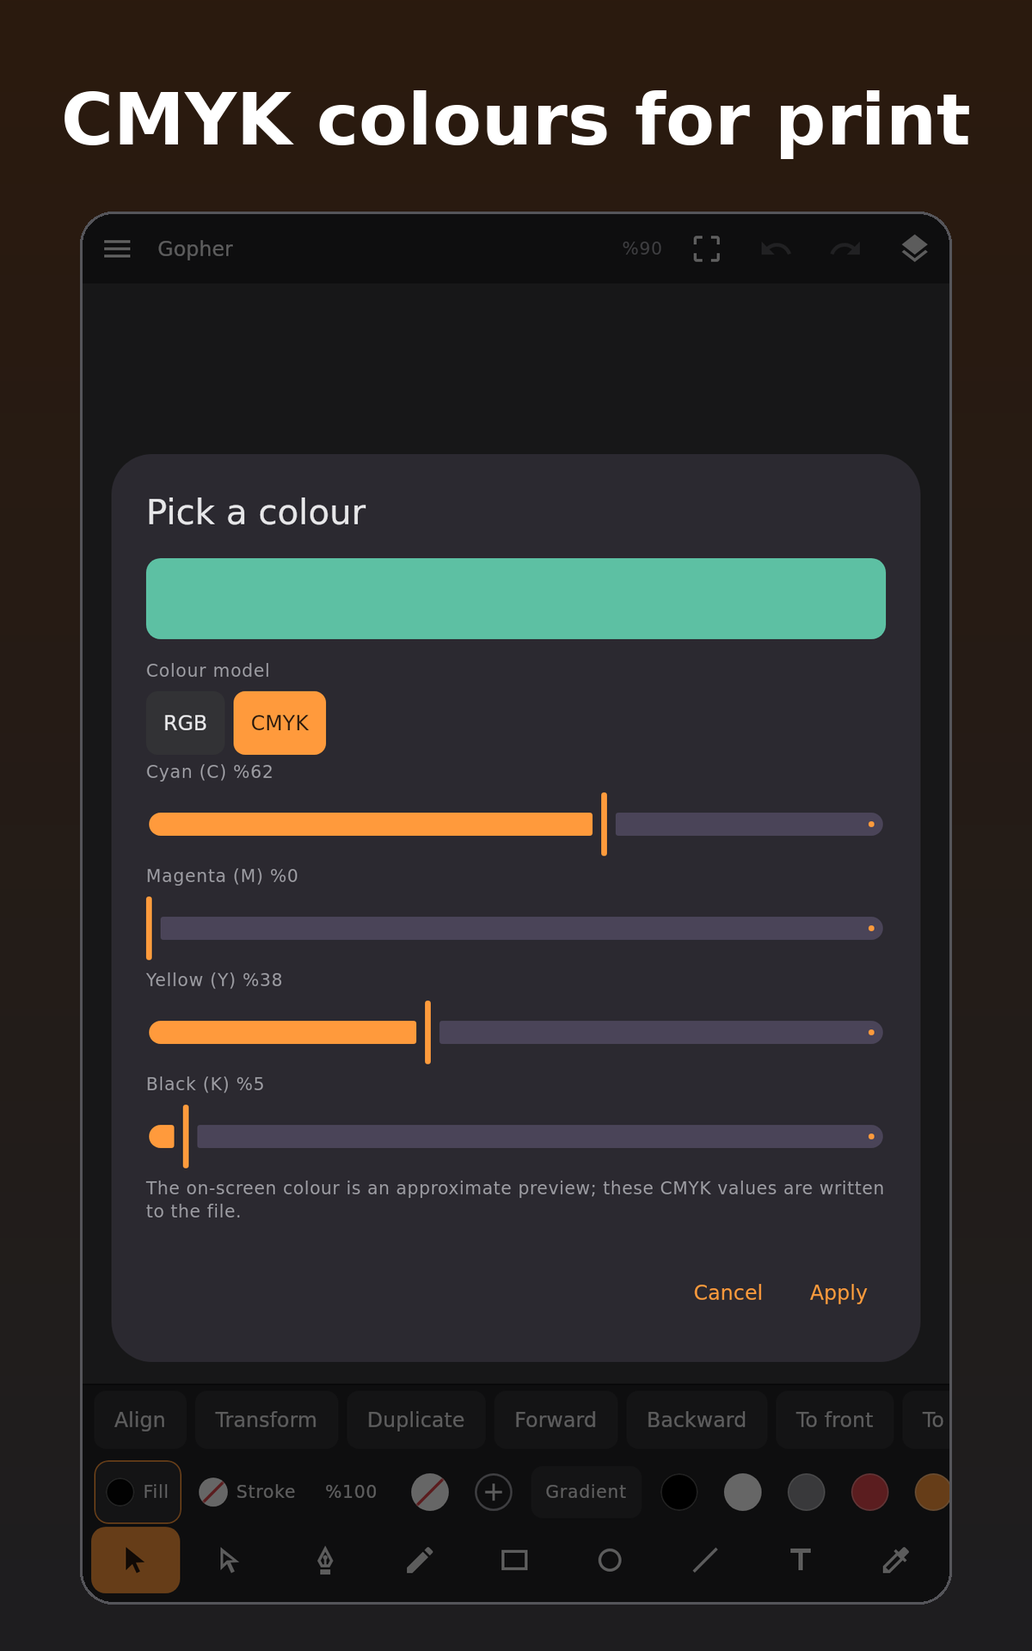
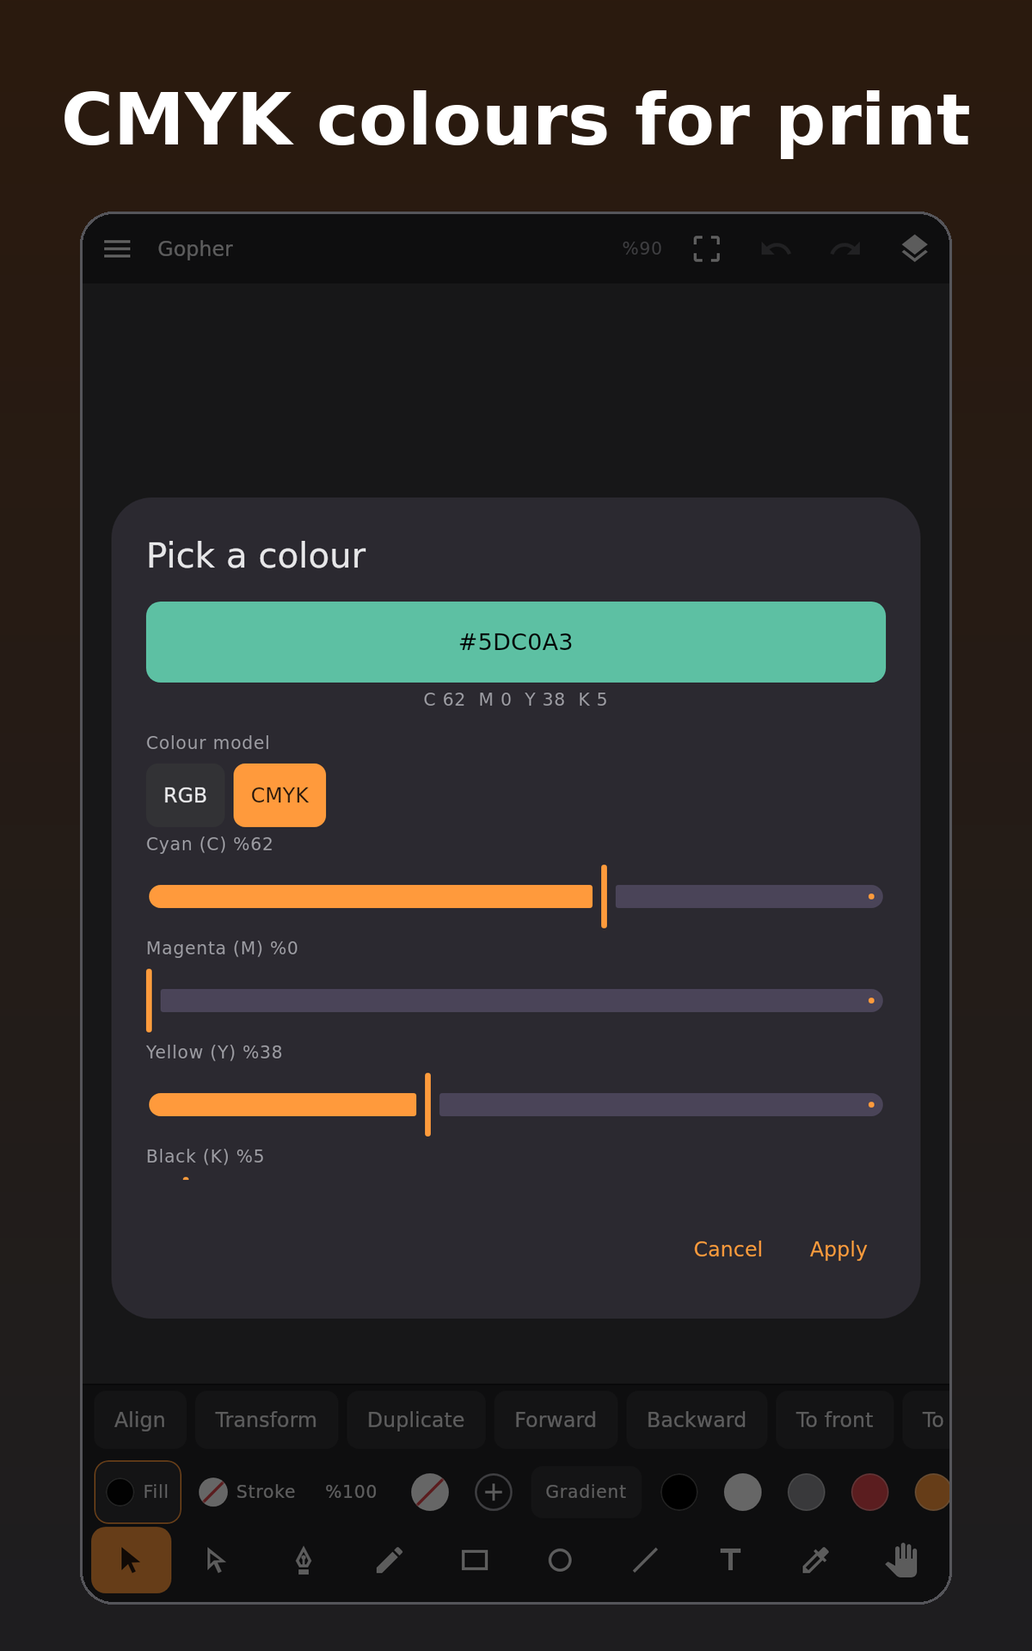
El aracı (yalnızca kaydırma), renk tekerleği ve renk kodu, seçili nesneyi katmanda gösterme
- Kaydır aracı: dokunuş seçmez/çizmez, sürükleme tuvali kaydırır (masaüstünde H)
- Renk seçici: ton/doygunluk tekerleği, parlaklık, #RRGGBB kodu ve R/G/B ya da C/M/Y/K değerleri
- Katmanda göster: panel açılır, üst gruplar genişler, liste satıra kayar; panel açıkken tuval seçimi de izlenir
- Panelden seçilen nesne ekran dışındaysa görünüme getirilir
- Mağaza ekran görüntüleri yenilendi

Claude-Session: https://claude.ai/code/session_01NvxsdBtFGvDdagaEbqt32g

diff --git a/shared-ui/src/main/kotlin/io/github/mhmmtbg/mobileillustrator/ui/Dialogs.kt b/shared-ui/src/main/kotlin/io/github/mhmmtbg/mobileillustrator/ui/Dialogs.kt
@@ -1,6 +1,20 @@
 package io.github.mhmmtbg.mobileillustrator.ui
 
 import io.github.mhmmtbg.mobileillustrator.model.tr
+import androidx.compose.foundation.Canvas
+import androidx.compose.foundation.gestures.awaitEachGesture
+import androidx.compose.foundation.gestures.awaitFirstDown
+import androidx.compose.foundation.layout.size
+import androidx.compose.runtime.rememberUpdatedState
+import androidx.compose.ui.geometry.Offset
+import androidx.compose.ui.graphics.Brush
+import androidx.compose.ui.graphics.drawscope.Stroke
+import androidx.compose.ui.input.pointer.pointerInput
+import androidx.compose.ui.text.style.TextAlign
+import kotlin.math.atan2
+import kotlin.math.cos
+import kotlin.math.sin
+import kotlin.math.sqrt
 import androidx.compose.foundation.background
 import androidx.compose.foundation.clickable
 import androidx.compose.foundation.horizontalScroll
@@ -208,9 +222,33 @@ fun ColorPickerDialog(initial: Rgba, onDismiss: () -> Unit, onPick: (Rgba) -> Un
         onDismissRequest = onDismiss,
         title = { Text(tr("Renk seç")) },
         text = {
-            Column(Modifier.verticalScroll(rememberScrollState()), verticalArrangement = Arrangement.spacedBy(4.dp)) {
-                val preview = if (cmykMode) Color(cmyk().toRgb().toArgb()) else Color(argb())
-                Box(Modifier.fillMaxWidth().height(56.dp).clip(RoundedCornerShape(10.dp)).background(preview))
+            // Yükseklik sınırlı: klavye açıkken Uygula/Vazgeç düğmeleri klavyenin arkasında kalmamalı.
+            Column(Modifier.heightIn(max = 400.dp).verticalScroll(rememberScrollState()), verticalArrangement = Arrangement.spacedBy(4.dp)) {
+                val shown = if (cmykMode) cmyk().toRgb().toArgb() else argb()
+                val preview = Color(shown)
+                // Seçilen rengin kodu, rengin üzerinde okunur biçimde gösterilir.
+                val code = "#%06X".format(shown and 0xFFFFFF)
+                val red = (shown shr 16) and 0xFF
+                val green = (shown shr 8) and 0xFF
+                val blue = shown and 0xFF
+                val onPreview = if (red * 0.299 + green * 0.587 + blue * 0.114 > 150) Color.Black else Color.White
+                Box(
+                    Modifier.fillMaxWidth().height(56.dp).clip(RoundedCornerShape(10.dp)).background(preview)
+                        .semantics { contentDescription = tr("Renk kodu: %s", code) },
+                    contentAlignment = Alignment.Center,
+                ) {
+                    Text(code, color = onPreview, style = MaterialTheme.typography.titleMedium)
+                }
+                Text(
+                    if (cmykMode) {
+                        "C %d  M %d  Y %d  K %d".format((c * 100).toInt(), (m * 100).toInt(), (y * 100).toInt(), (k * 100).toInt())
+                    } else {
+                        "R %d  G %d  B %d".format(red, green, blue)
+                    },
+                    Modifier.fillMaxWidth(),
+                    style = MaterialTheme.typography.labelMedium,
+                    textAlign = TextAlign.Center,
+                )
                 (ink0 as? Ink.Spot)?.let { spot ->
                     Text(
                         tr("Şu anki renk bir spot renk: %s (%%%s). Buradan renk seçersen spot tanımı kalkar.", spot.name, (spot.tint * 100).toInt()),
@@ -231,10 +269,10 @@ fun ColorPickerDialog(initial: Rgba, onDismiss: () -> Unit, onPick: (Rgba) -> Un
                     ink(tr("Siyah (K)"), k) { k = it }
                     Text(tr("Ekrandaki renk yaklaşık bir önizlemedir; dosyaya bu CMYK değerleri yazılır."), style = MaterialTheme.typography.bodySmall)
                 } else {
-                    Text(tr("Ton"), style = MaterialTheme.typography.labelMedium)
-                    Slider(hue, { hue = it; syncHex() }, valueRange = 0f..360f, modifier = Modifier.semantics { contentDescription = tr("Ton") })
-                    Text(tr("Doygunluk"), style = MaterialTheme.typography.labelMedium)
-                    Slider(sat, { sat = it; syncHex() }, modifier = Modifier.semantics { contentDescription = tr("Doygunluk") })
+                    // Tekerlek: açı tonu, merkezden uzaklık doygunluğu verir. Parlaklık alttaki sürgüdedir.
+                    Box(Modifier.fillMaxWidth(), contentAlignment = Alignment.Center) {
+                        ColorWheel(hue, sat, value) { h, sv -> hue = h; sat = sv; syncHex() }
+                    }
                     Text(tr("Parlaklık"), style = MaterialTheme.typography.labelMedium)
                     Slider(value, { value = it; syncHex() }, modifier = Modifier.semantics { contentDescription = tr("Parlaklık") })
                     OutlinedTextField(
@@ -481,4 +519,52 @@ fun CoffeeDialog(coffee: CoffeeState, onDismiss: () -> Unit, onBuy: () -> Unit) 
         },
         dismissButton = { if (!coffee.purchased) TextButton(onClick = onDismiss) { Text(tr("Vazgeç")) } },
     )
+}
+
+private val WheelHues = listOf(0f, 60f, 120f, 180f, 240f, 300f, 360f).map { Color(hsvToArgb(it, 1f, 1f)) }
+
+/**
+ * Renk tekerleği. Dokunulan noktanın açısı tonu (0-360), merkezden uzaklığı doygunluğu (0-1) verir;
+ * parlaklık ayrı bir sürgüyle seçilir ve tekerlek o parlaklıkta gösterilir.
+ */
+@Composable
+private fun ColorWheel(hue: Float, saturation: Float, value: Float, onChange: (hue: Float, saturation: Float) -> Unit) {
+    val current by rememberUpdatedState(onChange)
+    val label = tr("Renk tekerleği")
+    Canvas(
+        Modifier
+            .size(190.dp)
+            .semantics { contentDescription = label }
+            .pointerInput(Unit) {
+                fun pick(p: Offset) {
+                    val radius = minOf(size.width, size.height) / 2f
+                    val dx = p.x - size.width / 2f
+                    val dy = p.y - size.height / 2f
+                    val angle = Math.toDegrees(atan2(dy.toDouble(), dx.toDouble())).toFloat()
+                    current((angle + 360f) % 360f, (sqrt(dx * dx + dy * dy) / radius).coerceIn(0f, 1f))
+                }
+                awaitEachGesture {
+                    val down = awaitFirstDown()
+                    pick(down.position)
+                    down.consume()
+                    while (true) {
+                        val change = awaitPointerEvent().changes.firstOrNull { it.id == down.id } ?: break
+                        if (!change.pressed) break
+                        pick(change.position)
+                        change.consume()
+                    }
+                }
+            },
+    ) {
+        val radius = size.minDimension / 2f
+        drawCircle(Brush.sweepGradient(WheelHues, center), radius)
+        drawCircle(Brush.radialGradient(listOf(Color.White, Color.White.copy(alpha = 0f)), center, radius), radius)
+        if (value < 1f) drawCircle(Color.Black.copy(alpha = 1f - value), radius)
+        // Seçili rengin yeri
+        val a = Math.toRadians(hue.toDouble())
+        val at = Offset(center.x + (cos(a) * saturation * radius).toFloat(), center.y + (sin(a) * saturation * radius).toFloat())
+        drawCircle(Color(hsvToArgb(hue, saturation, value)), 9.dp.toPx(), at)
+        drawCircle(Color.White, 9.dp.toPx(), at, style = Stroke(3.dp.toPx()))
+        drawCircle(Color.Black.copy(alpha = 0.6f), 11.dp.toPx(), at, style = Stroke(1.dp.toPx()))
+    }
 }

diff --git a/shared-ui/src/main/kotlin/io/github/mhmmtbg/mobileillustrator/editor/EditorViewModel.kt b/shared-ui/src/main/kotlin/io/github/mhmmtbg/mobileillustrator/editor/EditorViewModel.kt
@@ -412,7 +412,7 @@ class EditorViewModel(private val io: DocumentIo, private val scope: CoroutineSc
                 val snap = if (targets.isEmpty()) null else Snap.point(start, targets, snapThreshold())
                 return Drag.Create(if (snap == null) start else Vec2(start.x + snap.dx, start.y + snap.dy), newId(), layer.id, targets)
             }
-            Tool.Eyedropper -> return Drag.Pan(startScreen)
+            Tool.Eyedropper, Tool.Hand -> return Drag.Pan(startScreen)
         }
     }
 
@@ -1072,6 +1072,7 @@ class EditorViewModel(private val io: DocumentIo, private val scope: CoroutineSc
     }
 
     /** Katman panelinden nesne seçimi (iç içe nesneler dahil). */
+    /** Katman panelinden seçim: nesne tuvalde de seçilir ve ekranın dışındaysa görünüme getirilir. */
     fun selectNode(id: String) {
         val node = present.findNode(id) ?: return
         if (state.pen != null) finishPen()
@@ -1079,6 +1080,41 @@ class EditorViewModel(private val io: DocumentIo, private val scope: CoroutineSc
             nodeEdit = if (state.tool == Tool.Direct && node is PathNode) NodeEdit(id) else null,
             tool = if (state.tool == Tool.Direct) Tool.Direct else Tool.Select,
         )
+        bringIntoView(present.boundsOf(setOf(id)) ?: return)
+    }
+
+    /** [box] ekranda hiç görünmüyorsa görünümü (ölçeği değiştirmeden) onu ortalayacak biçimde kaydırır. */
+    private fun bringIntoView(box: Rect) {
+        if (canvasSize.width <= 0 || canvasSize.height <= 0) return
+        val visible = Rect.of(viewport.toDocument(Offset.Zero), viewport.toDocument(Offset(canvasSize.width, canvasSize.height)))
+        if (box.intersects(visible)) return
+        val c = box.center
+        fitted = false
+        viewport = viewport.copy(
+            offset = Offset(canvasSize.width / 2 - c.x.toFloat() * viewport.scale, canvasSize.height / 2 - c.y.toFloat() * viewport.scale),
+        )
+    }
+
+    /**
+     * Tuvalde seçili nesneyi katman panelinde gösterir: panel açılır, nesnenin içinde bulunduğu katman ve
+     * gruplar genişletilir, liste o satıra kaydırılır.
+     */
+    fun revealSelectionInLayers() {
+        val id = state.selection.firstOrNull() ?: return
+        val path = ArrayList<String>()
+        fun search(nodes: List<Node>): Boolean {
+            for (n in nodes) {
+                if (n.id == id) return true
+                if (n is GroupNode) {
+                    path += n.id
+                    if (search(n.children)) return true
+                    path.removeAt(path.size - 1)
+                }
+            }
+            return false
+        }
+        val layer = present.layers.firstOrNull { l -> path.clear(); search(l.children) } ?: return
+        state = state.copy(layersOpen = true, expanded = state.expanded + layer.id + path, revealTick = state.revealTick + 1)
     }
 
     // ---- Metin ------------------------------------------------------------

diff --git a/desktop/src/test/kotlin/io/github/mhmmtbg/mobileillustrator/desktop/DesktopSmokeTest.kt b/desktop/src/test/kotlin/io/github/mhmmtbg/mobileillustrator/desktop/DesktopSmokeTest.kt
@@ -1,9 +1,12 @@
 package io.github.mhmmtbg.mobileillustrator.desktop
 
 import androidx.compose.ui.ImageComposeScene
+import androidx.compose.ui.geometry.Offset
+import androidx.compose.ui.geometry.Size
 import androidx.compose.ui.unit.Density
 import io.github.mhmmtbg.mobileillustrator.editor.EditorViewModel
 import io.github.mhmmtbg.mobileillustrator.editor.ExportFormat
+import io.github.mhmmtbg.mobileillustrator.editor.Tool
 import io.github.mhmmtbg.mobileillustrator.model.Document
 import io.github.mhmmtbg.mobileillustrator.model.L10n
 import io.github.mhmmtbg.mobileillustrator.model.PathNode
@@ -110,5 +113,45 @@ class DesktopSmokeTest {
         assertTrue(((centre shr 16) and 0xFF) > 120, "tuval ortası %08X".format(centre))
         SwingUtilities.invokeAndWait { scene.close() }
         assertTrue(Document.blank().layers.isNotEmpty())
+    }
+
+    @Test
+    fun handToolOnlyPansAndSelectionIsRevealedInLayers() {
+        val io = DesktopDocumentIo(newRoot())
+        lateinit var vm: EditorViewModel
+        SwingUtilities.invokeAndWait {
+            vm = EditorViewModel(io, CoroutineScope(SupervisorJob() + Dispatchers.Main))
+            vm.onCanvasSize(Size(1000f, 800f))
+            vm.openSample()
+        }
+        val deadline = System.currentTimeMillis() + 30_000
+        while (System.currentTimeMillis() < deadline && (vm.state.busy != null || vm.state.document.layers.size != 3)) Thread.sleep(50)
+        SwingUtilities.invokeAndWait {
+            // El aracı: sürüklemek görünümü kaydırır, dokunmak hiçbir şeyi seçmez ya da çizmez.
+            val nodes = vm.state.document.layers.sumOf { it.children.size }
+            val before = vm.viewport
+            vm.selectTool(Tool.Hand)
+            vm.onDrag(Offset(400f, 400f), Offset(450f, 430f))
+            vm.onDrag(Offset(400f, 400f), Offset(500f, 460f))
+            vm.onDragEnd()
+            vm.onTap(Offset(500f, 400f))
+            assertEquals(before.scale, vm.viewport.scale)
+            assertEquals(before.offset.x + 100f, vm.viewport.offset.x, 0.5f)
+            assertEquals(before.offset.y + 60f, vm.viewport.offset.y, 0.5f)
+            assertTrue(vm.state.selection.isEmpty())
+            assertEquals(nodes, vm.state.document.layers.sumOf { it.children.size })
+            assertTrue(!vm.state.history.canUndo, "kaydırma belgeyi değiştirmemeli")
+
+            // Seçili nesne katman panelinde gösterilir: panel açılır ve nesnenin katmanı genişler.
+            val layer = vm.state.document.layers.first { it.name == "Pallette" }
+            vm.selectNode(layer.children.first().id)
+            vm.toggleLayersPanel()
+            vm.toggleLayersPanel()
+            assertTrue(!vm.state.layersOpen)
+            vm.revealSelectionInLayers()
+            assertTrue(vm.state.layersOpen)
+            assertTrue(layer.id in vm.state.expanded)
+            assertEquals(1, vm.state.revealTick)
+        }
     }
 }

diff --git a/shared-ui/src/main/kotlin/io/github/mhmmtbg/mobileillustrator/ui/LayersPanel.kt b/shared-ui/src/main/kotlin/io/github/mhmmtbg/mobileillustrator/ui/LayersPanel.kt
@@ -16,6 +16,8 @@ import androidx.compose.foundation.layout.size
 import androidx.compose.foundation.layout.width
 import androidx.compose.foundation.lazy.LazyColumn
 import androidx.compose.foundation.lazy.items
+import androidx.compose.foundation.lazy.rememberLazyListState
+import androidx.compose.runtime.LaunchedEffect
 import androidx.compose.material3.DropdownMenu
 import androidx.compose.material3.DropdownMenuItem
 import androidx.compose.material3.HorizontalDivider
@@ -83,7 +85,20 @@ fun LayersPanel(vm: EditorViewModel, modifier: Modifier = Modifier) {
             BarButton(AppIcons.Close, tr("Paneli kapat"), onClick = vm::toggleLayersPanel)
         }
         HorizontalDivider(color = AppColors.Divider)
-        LazyColumn(Modifier.fillMaxWidth().weight(1f)) {
+        // Tuvalde seçilen nesne listede görünür olsun: kapalı bir grubun içindeyse açılır, satır ekran dışındaysa
+        // liste oraya kayar. Panelden seçildiğinde satır zaten görünür olduğundan liste yerinde kalır.
+        val listState = rememberLazyListState()
+        val selectedId = state.selection.singleOrNull()
+        LaunchedEffect(selectedId, state.revealTick) {
+            val id = selectedId ?: return@LaunchedEffect
+            val index = rows.indexOfFirst { it is PanelRow.OfNode && it.node.id == id }
+            if (index < 0) {
+                vm.revealSelectionInLayers()
+            } else if (listState.layoutInfo.visibleItemsInfo.none { it.index == index }) {
+                listState.animateScrollToItem(maxOf(0, index - 2))
+            }
+        }
+        LazyColumn(Modifier.fillMaxWidth().weight(1f), state = listState) {
             items(rows, key = { it.key }) { row ->
                 when (row) {
                     is PanelRow.OfLayer -> LayerRow(vm, row, onRename = { renaming = row.layer.id })

diff --git a/shared-ui/src/main/kotlin/io/github/mhmmtbg/mobileillustrator/editor/EditorState.kt b/shared-ui/src/main/kotlin/io/github/mhmmtbg/mobileillustrator/editor/EditorState.kt
@@ -13,7 +13,8 @@ import io.github.mhmmtbg.mobileillustrator.model.Rect
 import io.github.mhmmtbg.mobileillustrator.model.Rgba
 import io.github.mhmmtbg.mobileillustrator.model.Vec2
 
-enum class Tool { Select, Direct, Pen, Pencil, Rectangle, Ellipse, Line, Text, Eyedropper }
+/** [Hand]: yalnızca tuvali kaydırır; dokunuş hiçbir şeyi seçmez ya da çizmez. */
+enum class Tool { Select, Direct, Pen, Pencil, Rectangle, Ellipse, Line, Text, Eyedropper, Hand }
 
 /** Kontur çizgi türü; aralıklar kalınlığa oranlıdır. */
 enum class DashStyle(val pattern: List<Double>) {
@@ -119,6 +120,8 @@ data class EditorState(
     val layersOpen: Boolean = false,
     /** Katman panelinde açık duran katman ve grupların kimlikleri. */
     val expanded: Set<String> = emptySet(),
+    /** Katman panelinin seçili nesneye kaydırılması istendikçe artar. */
+    val revealTick: Int = 0,
     val busy: String? = null,
     val message: String? = null,
     /** İçe aktarmada birebir aktarılamayan özellikler; pencere olarak gösterilir. */

diff --git a/shared-ui/src/main/kotlin/io/github/mhmmtbg/mobileillustrator/ui/EditorScreen.kt b/shared-ui/src/main/kotlin/io/github/mhmmtbg/mobileillustrator/ui/EditorScreen.kt
@@ -94,6 +94,7 @@ private val Tools = listOf(
     ToolSpec(Tool.Line, AppIcons.Line, "Çizgi"),
     ToolSpec(Tool.Text, AppIcons.Text, "Metin"),
     ToolSpec(Tool.Eyedropper, AppIcons.Eyedropper, "Damlalık"),
+    ToolSpec(Tool.Hand, AppIcons.Hand, "Kaydır"),
 )
 
 @Composable
@@ -403,6 +404,7 @@ private fun ContextBar(vm: EditorViewModel, onRename: (String) -> Unit, onTransf
             actions += tr("Arkaya") to { vm.reorderSelection(ZMove.Backward) }
             actions += tr("En öne") to { vm.reorderSelection(ZMove.Front) }
             actions += tr("En arkaya") to { vm.reorderSelection(ZMove.Back) }
+            actions += tr("Katmanda göster") to vm::revealSelectionInLayers
             if (single != null) actions += tr("Adlandır") to { onRename(single.id) }
             actions += tr("Sil") to vm::deleteSelection
         }

diff --git a/shared-ui/src/main/kotlin/io/github/mhmmtbg/mobileillustrator/ui/AppIcons.kt b/shared-ui/src/main/kotlin/io/github/mhmmtbg/mobileillustrator/ui/AppIcons.kt
@@ -51,6 +51,14 @@ object AppIcons {
                 "l8.92,-8.92 1.42,1.42 1.41,-1.41 -1.92,-1.92 3.12,-3.12c0.4,-0.4 0.4,-1.03 0.01,-1.42zM6.92,19L5,17.08l8.06,-8.06 1.92,1.92L6.92,19z",
         )
     }
+    val Hand by lazy {
+        icon(
+            "Hand",
+            "M23,5.5V20c0,2.2 -1.8,4 -4,4h-7.3c-1.08,0 -2.1,-0.43 -2.85,-1.19L1,14.83s1.26,-1.23 1.3,-1.25c0.22,-0.19 0.49,-0.29 0.79,-0.29 " +
+                "0.22,0 0.42,0.06 0.6,0.16 0.04,0.01 4.31,2.46 4.31,2.46V4c0,-0.83 0.67,-1.5 1.5,-1.5S11,3.17 11,4v7h1V1.5c0,-0.83 0.67,-1.5 1.5,-1.5" +
+                "S15,0.67 15,1.5V11h1V2.5c0,-0.83 0.67,-1.5 1.5,-1.5s1.5,0.67 1.5,1.5V11h1V5.5c0,-0.83 0.67,-1.5 1.5,-1.5s1.5,0.67 1.5,1.5z",
+        )
+    }
 
     // Eylemler
     val Undo by lazy {

diff --git a/desktop/src/main/kotlin/io/github/mhmmtbg/mobileillustrator/desktop/Main.kt b/desktop/src/main/kotlin/io/github/mhmmtbg/mobileillustrator/desktop/Main.kt
@@ -119,6 +119,7 @@ private fun handleShortcut(event: KeyEvent, vm: EditorViewModel, host: DesktopHo
         Key.L -> vm.selectTool(Tool.Ellipse)
         Key.T -> vm.selectTool(Tool.Text)
         Key.I -> vm.selectTool(Tool.Eyedropper)
+        Key.H -> vm.selectTool(Tool.Hand)
         else -> return false
     }
     return true

diff --git a/core-model/src/main/kotlin/io/github/mhmmtbg/mobileillustrator/model/L10n.kt b/core-model/src/main/kotlin/io/github/mhmmtbg/mobileillustrator/model/L10n.kt
@@ -297,6 +297,10 @@ object L10n {
         "az önce" to "just now",
         "%s dk önce" to "%s min ago",
         "%s sa önce" to "%s h ago",
+        "Kaydır" to "Pan",
+        "Katmanda göster" to "Show in layers",
+        "Renk tekerleği" to "Colour wheel",
+        "Renk kodu: %s" to "Colour code: %s",
     )
 }
 

diff --git a/README.md b/README.md
@@ -36,15 +36,16 @@ yüklenir ve PNG olarak dışa aktarılır. Ekran görüntüleri aynı Release s
 - Dosyadaki katmanlar adları, görünürlükleri ve kilitleriyle gelir; çalışma yüzeyleri korunur.
 - Katman ekle, sil, yeniden adlandır, sırala, gizle, kilitle; nesneleri katmanlar arasında taşı.
 - Her katmanın içindeki nesne ağacı (gruplar, kırpma grupları) panelden gezilir ve seçilir.
+- Tuvalde seçilen nesne "Katmanda göster" ile listede bulunur; listeden seçilen nesne tuvalde seçilir ve ekran dışındaysa görünüme getirilir.
 
 **Çizim ve düzenleme**
 - Seçim: taşı, ölçekle, döndür, çerçeveyle çoklu seç; sayısal genişlik/yükseklik/açı, yatay ve dikey çevirme.
 - Doğrudan seçim: düğümleri ve tutamaçları sürükle, yola dokunarak düğüm ekle, sil, köşe/yumuşak çevir.
-- Kalem (Bezier), kurşun kalem, dikdörtgen, elips, çizgi, metin, damlalık.
+- Kalem (Bezier), kurşun kalem, dikdörtgen, elips, çizgi, metin, damlalık; yalnızca tuvali kaydıran el aracı.
 - Hizalama ve dağıtma, kenarlara ve merkezlere yakalama (kılavuz çizgileriyle).
 - Şekil işlemleri: birleştir, öndekini çıkar, kesiştir, dışla. Kırpma maskesi yap/bırak.
 - Dolgu ve kontur: düz renk, doğrusal/dairesel gradyan (duraklar ve açı), opaklık; kontur kalınlığı, uç, köşe, kesikli çizgi.
-- Renk seçici RGB (ton/doygunluk/parlaklık, onaltılık) ve CMYK modunda çalışır.
+- Renk seçici: renk tekerleği ve parlaklık, renk kodu (#RRGGBB) ve R/G/B değerleri; baskı için CMYK modu.
 - Metin: çok satır, hizalama, satır aralığı, kalın/eğik, kendi `.ttf`/`.otf` fontunu yükleme, yola çevirme.
 - Grupla, grubu çöz, çoğalt, sıralama, geri al/yinele, görsel yerleştirme.
 
@@ -55,7 +56,7 @@ yüklenir ve PNG olarak dışa aktarılır. Ekran görüntüleri aynı Release s
 
 **Windows:** aynı ekranlar ve aynı dosya desteği. Fare tekerleği yakınlaştırır, sağ ya da orta tuşla
 sürüklemek kaydırır. Kısayollar: Ctrl+Z / Ctrl+Shift+Z, Ctrl+S, Ctrl+O, Ctrl+A, Ctrl+D, Ctrl+G,
-Ctrl+0 (sığdır), Delete; araçlar V, A, P, N, M, L, T, I. Komut satırında dosya yolu verilirse o dosya açılır.
+Ctrl+0 (sığdır), Delete; araçlar V, A, P, N, M, L, T, I, H (el). Komut satırında dosya yolu verilirse o dosya açılır.
 
 **Reklam ve satın alma (yalnızca Android):** uygulama şerit reklam gösterir. Dosya menüsündeki
 "Geliştiriciye kahve ısmarla" tek seferlik bir Google Play satın almasıdır; alınınca reklamlar kalıcı
